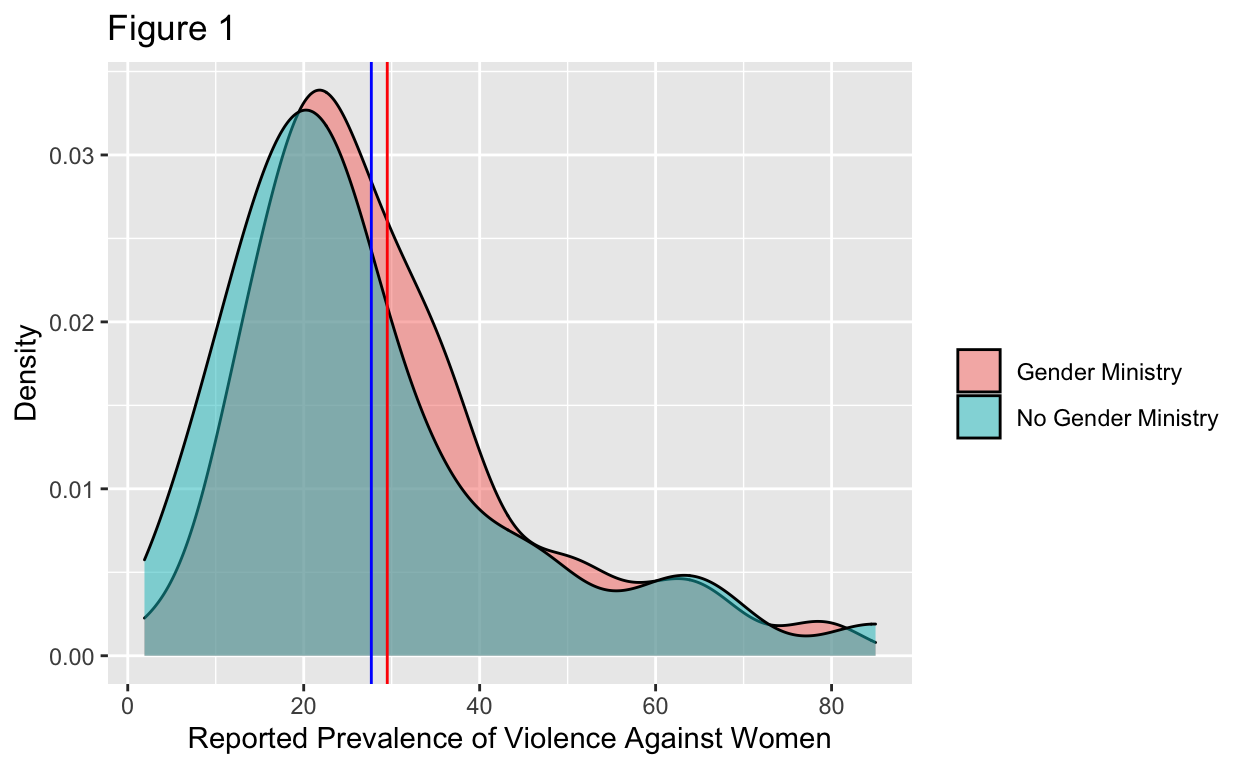
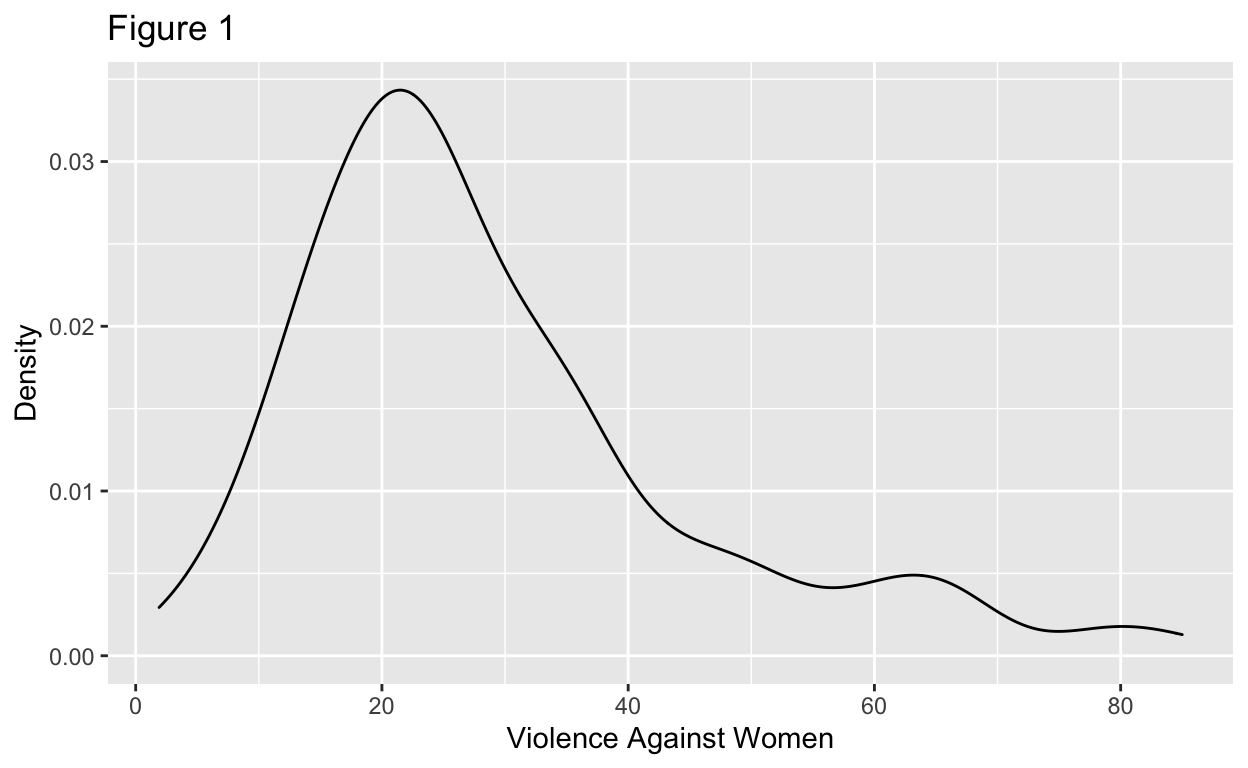
Added dependent variable plot

diff --git a/index.html b/index.html
@@ -115,7 +115,7 @@ code span.wa { color: #5e5e5e; font-style: italic; } /* Warning */
   <!--/radix_placeholder_rmarkdown_metadata-->
   
   <script type="text/json" id="radix-resource-manifest">
-  {"type":"character","attributes":{},"value":["ATTITUDES_PREVALENCE.csv","ATTITUDES.csv","index_files/anchor-4.2.2/anchor.min.js","index_files/bowser-1.9.3/bowser.min.js","index_files/distill-2.2.21/template.v2.js","index_files/figure-html5/unnamed-chunk-3-1.png","index_files/figure-html5/unnamed-chunk-4-1.png","index_files/figure-html5/unnamed-chunk-6-1.png","index_files/header-attrs-2.16/header-attrs.js","index_files/header-attrs-2.17/header-attrs.js","index_files/jquery-3.6.0/jquery-3.6.0.js","index_files/jquery-3.6.0/jquery-3.6.0.min.js","index_files/jquery-3.6.0/jquery-3.6.0.min.map","index_files/kePrint-0.0.1/kePrint.js","index_files/lightable-0.0.1/lightable.css","index_files/popper-2.6.0/popper.min.js","index_files/tippy-6.2.7/tippy-bundle.umd.min.js","index_files/tippy-6.2.7/tippy-light-border.css","index_files/tippy-6.2.7/tippy.css","index_files/tippy-6.2.7/tippy.umd.min.js","index_files/webcomponents-2.0.0/webcomponents.js","LAWS_ATTITUDES.csv","LAWS.csv","OECD_VAW.csv","PREVALENCE_LAWS.csv","PREVALENCE.csv"]}
+  {"type":"character","attributes":{},"value":["ATTITUDES_PREVALENCE.csv","ATTITUDES.csv","index_files/anchor-4.2.2/anchor.min.js","index_files/bowser-1.9.3/bowser.min.js","index_files/distill-2.2.21/template.v2.js","index_files/figure-html5/unnamed-chunk-3-1.png","index_files/figure-html5/unnamed-chunk-4-1.png","index_files/figure-html5/unnamed-chunk-6-1.png","index_files/figure-html5/unnamed-chunk-8-1.png","index_files/header-attrs-2.16/header-attrs.js","index_files/header-attrs-2.17/header-attrs.js","index_files/jquery-3.6.0/jquery-3.6.0.js","index_files/jquery-3.6.0/jquery-3.6.0.min.js","index_files/jquery-3.6.0/jquery-3.6.0.min.map","index_files/kePrint-0.0.1/kePrint.js","index_files/lightable-0.0.1/lightable.css","index_files/popper-2.6.0/popper.min.js","index_files/tippy-6.2.7/tippy-bundle.umd.min.js","index_files/tippy-6.2.7/tippy-light-border.css","index_files/tippy-6.2.7/tippy.css","index_files/tippy-6.2.7/tippy.umd.min.js","index_files/webcomponents-2.0.0/webcomponents.js","LAWS_ATTITUDES.csv","LAWS.csv","OECD_VAW.csv","PREVALENCE_LAWS.csv","PREVALENCE.csv"]}
   </script>
   <!--radix_placeholder_navigation_in_header-->
   <!--/radix_placeholder_navigation_in_header-->
@@ -1530,8 +1530,11 @@ code span.wa { color: #5e5e5e; font-style: italic; } /* Warning */
 <!-- A section describing your data, including the type of research design (e.g. experimental, cross-sectional, longitudinal, etc.) and a plot that summarizes the dependent variable (the length here may depend on how complicated your data is, but most data sections will be a couple of paragraphs) -->
 <p>I began collecting data by locating the Violence Against Women dataset from the Organisation for Economic Co-operation and Development (OECD) to gather data on 163 countries on their lifetime prevalence of violence against women as well as whether they have laws that actively harm women. Prevalence of violence against women is measured by a percent between 0 and 100, with 0 being no violence and 100 being total violence and is reported by the government. Laws that actively harm women are measured between 0 and 1, with 0 indicating no existing laws that actively harm women, and 1 indicating the presence of laws that clearly harm women and is based on the country’s current laws. Most countries fall somewhere in between the extremes on most counts in either 0.25, 0.5, or 0.75. I used rates of violence against women as the dependent variable and physically controlled for the presence of laws that actively harm women, as I believed that could have otherwise influenced my results. The data source only provided data for 2019, so I will not be conducting any sort of time review in this project.</p>
 <p>Next, to establish whether a country has a gender ministry, I manually searched for details on 163 countries to align with the data from the OECD data source. I individually looked up each country reported in the OECD data, found either governmental websites or news sources reporting the creation of a new department, or utilized some UN reports on the subject too, to present an updated registry. I measured between 0 and 1, with 0 indicating no gender ministry whatsoever and 1 indicating some sort of gender ministry. There were no numbers in between these extremes, as I combined any sort of gender ministry as a positive number. In future research, I may consider splitting it further, to distinguish between equality ministries, family ministries, and others. However, for the purposes of this study, I was unsure how to categorize them in terms of effectiveness, and since all ministries included focus on gender to some high degree, I chose to categorize them as the same. Additionally, there are so many different names for the ministries, but they perform very similar roles, and I was not sure how to conduct an unbiased review of these. Thus, the presence (or lack thereof) of a gender ministry was my independent variable.</p>
-<p>Finally, my research design is cross-sectional, since I will be using reported rates of violence against women and an analysis of existing laws from one point in time. Additionally, I did not interfere, but rather observed the existing data without any manipulation to deduce if there was any correlation between the existence of gender ministries and the rates of violence against women, when physically controlling for the country’s laws and whether they specifically harm women. Below is a plot (Figure 1) which summarizes the dependent variable.</p>
+<p>Finally, my research design is cross-sectional, since I will be using reported rates of violence against women and an analysis of existing laws from one point in time. Additionally, I did not interfere, but rather observed the existing data without any manipulation to deduce if there was any correlation between the existence of gender ministries and the rates of violence against women, when physically controlling for the country’s laws and whether they specifically harm women. Figure 1 summarizes the dependent variable.</p>
 <p>The data that I referenced can be found here <a href="https://data.oecd.org/inequality/violence-against-women.htm" class="uri">https://data.oecd.org/inequality/violence-against-women.htm</a></p>
+<div class="layout-chunk" data-layout="l-body">
+<p><img src="index_files/figure-html5/unnamed-chunk-3-1.png" width="624" /></p>
+</div>
 <h2 id="results">Results</h2>
 <!-- a visualization of the data in question that speaks to your research question -->
 <!-- a presentation (as a table or graph) of a regression model assessing your question along with a plain-English interpretation -->
@@ -1541,11 +1544,11 @@ code span.wa { color: #5e5e5e; font-style: italic; } /* Warning */
 <!-- You should include at least one multiple regression (i.e. regression with multiple explanatory/independent variables) in your analysis, but note that you're not graded on the results themselves (like whether you see any statistical significance). -->
 <!-- You should also interpret (in plain English) the main coefficient of interest in your regression, comment on the statistical significance of the estimated coefficient, and  say whether or not you believe the coefficient to represent a causal effect. -->
 <div class="layout-chunk" data-layout="l-body">
-<p><img src="index_files/figure-html5/unnamed-chunk-4-1.png" width="624" /></p>
+<p><img src="index_files/figure-html5/unnamed-chunk-6-1.png" width="624" /></p>
 </div>
 <p>Figure 2 demonstrates that for countries with a gender ministry, there are fewer countries with harmful laws about violence against women, where the most harmful laws are 1 and the least harmful laws are 0. It is notable that gender ministry is an expansive category here, including countries with a distinct Ministry of Gender, but also countries with a combined ministry, such as Ministry of Family and Gender, or Ministry of Social Issues with gender as a primary focus. Countries without a gender ministry are countries that lack all these ministry options. Thus, in each category of laws, in categories which mean more harmful laws, including 1 and 0.75 are more highly represented in the countries without a gender ministry or an office tangential to a gender ministry. For countries with fewer harmful laws, including 0.5 and 0.25, countries with a gender ministry or an office adjacent to it are more highly represented.</p>
 <div class="layout-chunk" data-layout="l-body">
-<p><img src="index_files/figure-html5/unnamed-chunk-6-1.png" width="624" /></p>
+<p><img src="index_files/figure-html5/unnamed-chunk-8-1.png" width="624" /></p>
 </div>
 <p>Figure 3 was my first attempt at trying to answer my research question on whether having a Ministry of Gender is correlated with better outcomes for women, particularly on violence against women. This visualization demonstrates that the rates of violence against women is similar for countries with and without a Gender Ministry, with higher reported rates of violence for countries with a Gender Ministry, although in this visualization, it is unclear whether this is a statistically significant difference. The prevalence is measured in a percent of women who both experience and report violence against women, ranging from 0 to 100, although no countries reported a rate of 100. However, it is notable to mention that over 30 countries in the dataset did not submit reports of violence against women, many of which are countries that do not have a gender ministry. Thus, these results could be skewed by the fact that many countries, including those without a Gender Ministry, did not submit and may have interfered with the data. Moreover, this also relies on reported violence against women, which is infamously extremely under-reported, so it is possible that higher reported prevalence of violence against women could be a good thing, since it could mean that women felt safe enough to report violence, which could have been facilitated by the presence of a Gender Ministry.</p>
 <div class="layout-chunk" data-layout="l-body">
